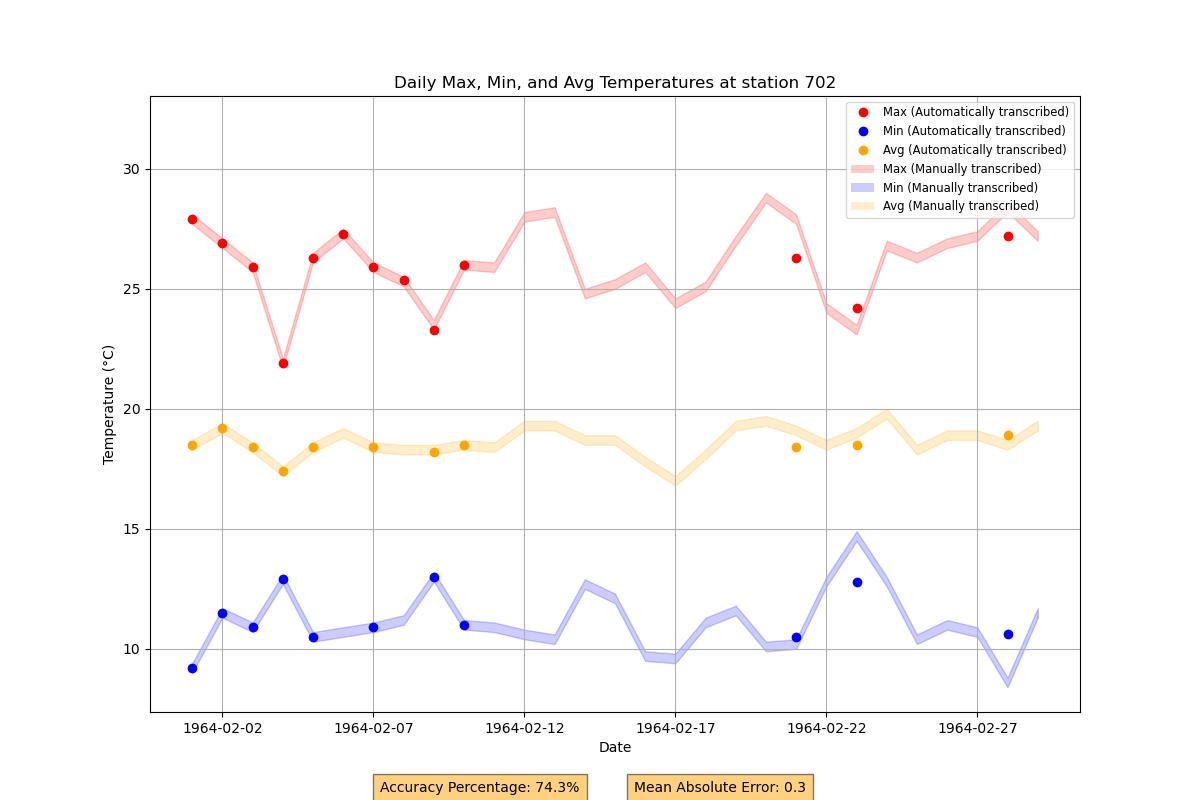
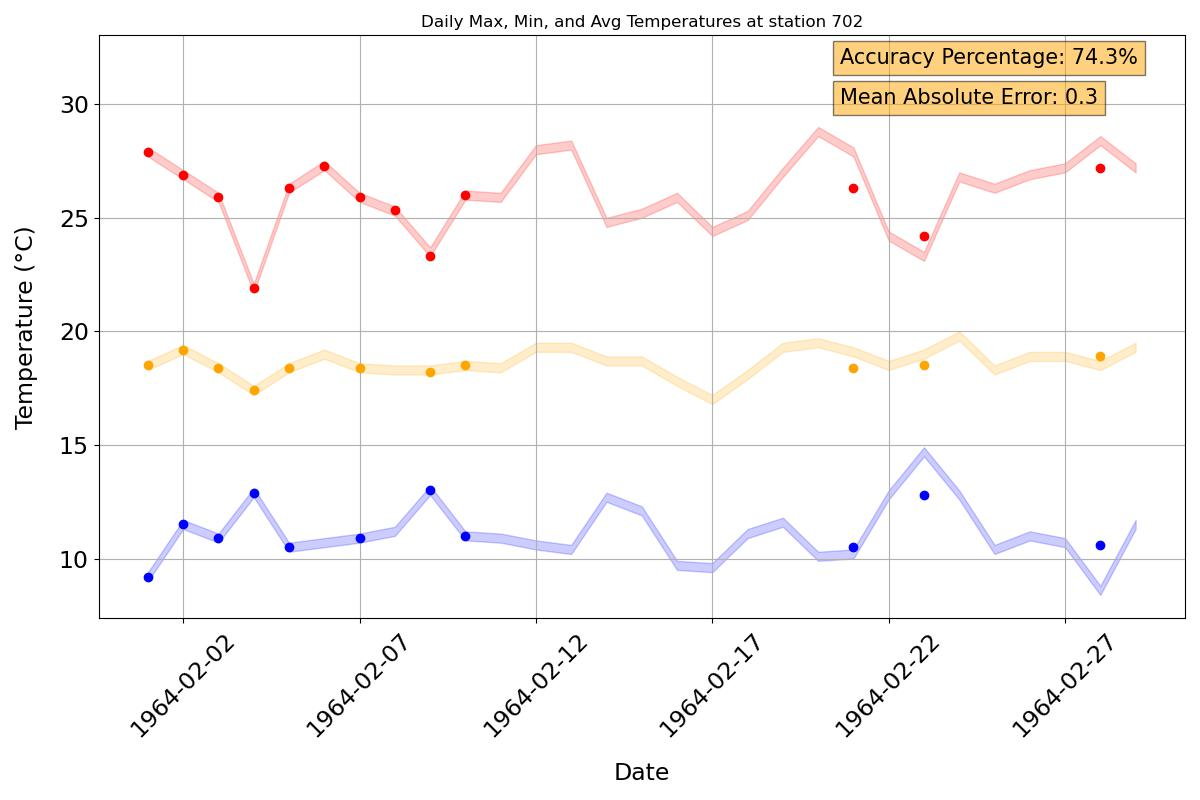
Validation plots - changes

diff --git a/src/validation.py b/src/validation.py
@@ -709,11 +709,7 @@ def plot_comparison(manual_df, post_processed_df, output_folder_path, station, p
     ax.plot(merged_df['Date'], merged_df['Min_Temperature_post'], 'o', label='Min (Automatically transcribed)', color='blue')
     ax.plot(merged_df['Date'], merged_df['Avg_Temperature_post'], 'o', label='Avg (Automatically transcribed)', color='orange')
 
-    # # Plot manually transcribed data as as points only with 'o' markers
-    # ax.plot(merged_df['Date'], merged_df['Max_Temperature_manual'], '--', label='Max (Manually transcribed)', color='red')
-    # ax.plot(merged_df['Date'], merged_df['Min_Temperature_manual'], '--', label='Min (Manually transcribed)', color='blue')
-    # ax.plot(merged_df['Date'], merged_df['Avg_Temperature_manual'], '--', label='Avg (Manually transcribed)', color='orange')
-    
+
     # Fill uncertainty margins around post-QA/QC data
     ax.fill_between(merged_df['Date'], merged_df['Max_Temperature_manual'] - uncertainty_margin, 
                     merged_df['Max_Temperature_manual'] + uncertainty_margin, color='red', alpha=0.2)
@@ -723,9 +719,13 @@ def plot_comparison(manual_df, post_processed_df, output_folder_path, station, p
                     merged_df['Avg_Temperature_manual'] + uncertainty_margin, color='orange', alpha=0.2)
     
     # Set plot labels and title
-    ax.set_xlabel('Date')
-    ax.set_ylabel('Temperature (°C)')
+    ax.set_xlabel('Date', fontsize=17, labelpad=15)
+    ax.set_ylabel('Temperature (°C)', fontsize=17, labelpad=15)
     ax.set_title(f'Daily Max, Min, and Avg Temperatures at station {station}')
+
+    # Adjust tick label font size
+    ax.tick_params(axis='x', labelsize=17)  # Set font size for x-axis tick labels
+    ax.tick_params(axis='y', labelsize=17)  # Set font size for y-axis tick labels
 
     # Adjust the y-axis limit to ensure the legend is above the plotted lines
     ylim = ax.get_ylim()
@@ -736,43 +736,50 @@ def plot_comparison(manual_df, post_processed_df, output_folder_path, station, p
     # Format the date labels to show at intervals of 5 days
     # Locator for every 5 days
     ax.xaxis.set_major_locator(mdates.DayLocator(interval=5))
+    plt.xticks(rotation=45)  # Rotate x-axis tick labels by 45 degrees
 
-    # Plot manually transcribed data as points with 'o' markers
-    manual_handle = [
-    Line2D([0], [0], marker='o', color='red', label='Max (Automatically transcribed)', linestyle='None'),
-    Line2D([0], [0], marker='o', color='blue', label='Min (Automatically transcribed)', linestyle='None'),
-    Line2D([0], [0], marker='o', color='orange', label='Avg (Automatically transcribed)', linestyle='None')]
+    # Add accuracy percentage below the x-axis
+    plt.figtext(0.70, 0.92, f'Accuracy Percentage: {accuracy_percentage_and_mean_absolute_error[0]:.1f}%', ha='left', fontsize=15, bbox={"facecolor":"orange", "alpha":0.5, "pad":5})
+    plt.figtext(0.70, 0.87, f'Mean Absolute Error: {accuracy_percentage_and_mean_absolute_error[1]:.1f}', ha='left', fontsize=15, bbox={"facecolor":"orange", "alpha":0.5, "pad":5})
 
-    # Create custom legend entries for automatically transcribed data + uncertainty
+    # # LEGEND
+    # # Plot manually transcribed data as points with 'o' markers
+    # manual_handle = [
+    # Line2D([0], [0], marker='o', color='red', label='Max (Automatically transcribed)', linestyle='None'),
+    # Line2D([0], [0], marker='o', color='blue', label='Min (Automatically transcribed)', linestyle='None'),
+    # Line2D([0], [0], marker='o', color='orange', label='Avg (Automatically transcribed)', linestyle='None')]
+
+    # # Create custom legend entries for automatically transcribed data + uncertainty
     # custom_handle = [
-    # (Line2D([0], [0], linestyle='--', color='red', lw=2), Patch(facecolor='red', alpha=0.2)),
-    # (Line2D([0], [0], linestyle='--', color='blue', lw=2), Patch(facecolor='blue', alpha=0.2)),
-    # (Line2D([0], [0], linestyle='--', color='orange', lw=2), Patch(facecolor='orange', alpha=0.2))]
+    # ( Patch(facecolor='red', alpha=0.2)),
+    # (Patch(facecolor='blue', alpha=0.2)),
+    # (Patch(facecolor='orange', alpha=0.2))]
 
-    custom_handle = [
-    ( Patch(facecolor='red', alpha=0.2)),
-    (Patch(facecolor='blue', alpha=0.2)),
-    (Patch(facecolor='orange', alpha=0.2))]
+    # # Combine the manual transcribed and automatically transcribed legend handles
+    # all_handles =  manual_handle + custom_handle
 
-    # Combine the manual transcribed and automatically transcribed legend handles
-    all_handles =  manual_handle + custom_handle
+    # # Create custom labels
+    # labels = [
+    #     'Max (Automatically transcribed)', 'Min (Automatically transcribed)', 'Avg (Automatically transcribed)', 
+    #     'Max (Manually transcribed)', 'Min (Manually transcribed)', 'Avg (Manually transcribed)'
+    # ]
 
-    # Create custom labels
-    labels = [
-        'Max (Automatically transcribed)', 'Min (Automatically transcribed)', 'Avg (Automatically transcribed)', 'Max (Manually transcribed)', 'Min (Manually transcribed)', 'Avg (Manually transcribed)']
+    # # Set legend handles with custom lines for each temperature type
+    # ax.legend(handles=all_handles, labels=labels, fontsize='small', loc='upper right')
 
-    # Set legend handles with custom lines for each temperature type
-    ax.legend(handles=all_handles, labels=labels, fontsize='small', loc='upper right')
+    # Add the legend below the plot
+    # ax.legend(handles=all_handles, labels=labels, loc='upper center', bbox_to_anchor=(0.5, -0.40), ncol=2, fontsize=14)
         
     ax.grid(True)
 
-    # Add accuracy percentage below the x-axis
-    plt.figtext(0.40, 0.01, f'Accuracy Percentage: {accuracy_percentage_and_mean_absolute_error[0]:.1f}%', ha='center', fontsize=10, bbox={"facecolor":"orange", "alpha":0.5, "pad":5})
-    plt.figtext(0.60, 0.01, f'Mean Absolute Error: {accuracy_percentage_and_mean_absolute_error[1]:.1f}', ha='center', fontsize=10, bbox={"facecolor":"orange", "alpha":0.5, "pad":5})
+    # # Add accuracy percentage below the x-axis
+    # plt.figtext(0.40, 0.01, f'Accuracy Percentage: {accuracy_percentage_and_mean_absolute_error[0]:.1f}%', ha='center', fontsize=10, bbox={"facecolor":"orange", "alpha":0.5, "pad":5})
+    # plt.figtext(0.60, 0.01, f'Mean Absolute Error: {accuracy_percentage_and_mean_absolute_error[1]:.1f}', ha='center', fontsize=10, bbox={"facecolor":"orange", "alpha":0.5, "pad":5})
     
     # Remove the '.xlsx' extension from the post_file to clean the filename
     cleaned_post_file_name = os.path.splitext(post_file)[0]
 
+    plt.tight_layout()
     # Save the plot
     plot_filename = os.path.join(output_folder_path, f'temperature_comparison_plot_{cleaned_post_file_name}.jpg')
     plt.savefig(plot_filename, format='jpg')
